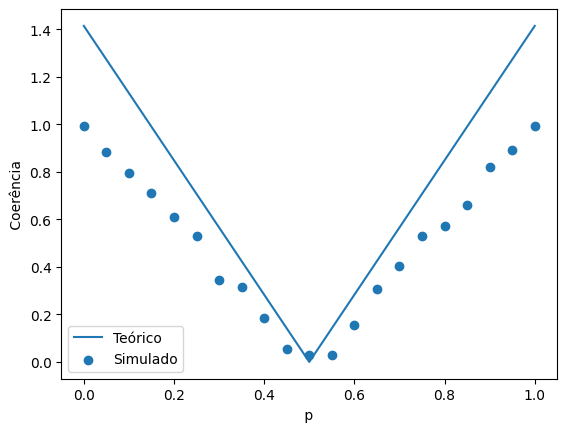
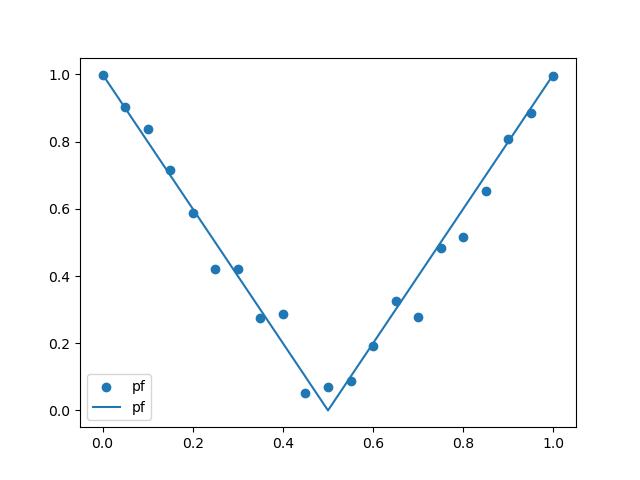
.

diff --git a/src/kraus_maps.py b/src/kraus_maps.py
@@ -15,7 +15,9 @@ class QuantumChannels(object):
         gamma = Symbol('gamma',real=True, positive=True)
         p = Symbol('p',real=True, positive=True)
 
-    def get_target_op(rho):
+    def get_target_op(state):
+        M_numpy = np.array(state.tolist(), dtype=np.complex64)
+        rho = simplify(M_numpy)
         state2 = np.zeros(np.shape(rho)[1],dtype=complex)
         aux = 0
         for i in rho[0]:
@@ -30,33 +32,34 @@ class QuantumChannels(object):
                         (sqrt(p)*exp(1j*phi)*sin(theta/2)),
                         (sqrt(1-p)*exp(1j*phi)*sin(theta/2)),
                         0]])
-        M_numpy = np.array(state.tolist(), dtype=np.complex64)
-        rho = simplify(M_numpy)
-        return rho
+        #M_numpy = np.array(state.tolist(), dtype=np.complex64)
+        #rho = simplify(M_numpy)
+        return state
     
     def rho_AB_bpf(theta, phi, p):
         state = Matrix([[(sqrt(1-p)*(cos(theta/2))),
                         (-1j*sqrt(p)*exp(1j*phi)*sin(theta/2)),
                         (sqrt(1-p)*exp(1j*phi)*sin(theta/2)),
                         (1j*sqrt(p)*cos(theta/2))]])
-        M_numpy = np.array(state.tolist(), dtype=np.complex64)
-        rho = simplify(M_numpy)
-        return rho
+        #M_numpy = np.array(state.tolist(), dtype=np.complex64)
+        #rho = simplify(M_numpy)
+        return state
 
     def rho_AB_bf(theta, phi, p):
         state = Matrix([[(sqrt(1-p)*cos(theta/2)),
-                        (sqrt(p)*cos(theta/2)),
+                        (sqrt(p)*exp(1j*phi)*sin(theta/2)),
                         (sqrt(1-p)*exp(1j*phi)*sin(theta/2)),
-                        -sqrt(p)*sin(theta/2)]])
+                        sqrt(p)*cos(theta/2)]])
         M_numpy = np.array(state.tolist(), dtype=np.complex64)
         rho = simplify(M_numpy)
-        return M_numpy
+        return rho
 
     def rho_AB_pf(theta, phi, p):
         state = Matrix([[(sqrt(1-p)*cos(theta/2)),
                         -(sqrt(p)*1j*sin(theta/2)),
                         (sqrt(p)*1j*cos(theta/2) +sqrt(1-p)*exp(1j*phi)*sin(theta/2)),
                         0]])
+        return state
         M_numpy = np.array(state.tolist(), dtype=np.complex64)
         rho = simplify(M_numpy)
         return rho
@@ -66,6 +69,7 @@ class QuantumChannels(object):
                          0,
                         (sqrt(1-p)*exp(1j*phi)*sin(theta/2)),
                         (sqrt(p)*exp(1j*phi)*sin(theta/2))]])
+        return state
         M_numpy = np.array(state.tolist(), dtype=np.complex64)
         rho = simplify(M_numpy)
         return rho
@@ -79,13 +83,30 @@ class QuantumChannels(object):
                         (sqrt(p/4)*cos(theta/2)),
                         (1j*sqrt(p/4)*cos(theta/2)),
                         0]])
-        M_numpy = np.array(state.tolist(), dtype=np.complex64)
-        rho = simplify(M_numpy)
-        return rho
+        #M_numpy = np.array(state.tolist(), dtype=np.complex64)
+        #rho = simplify(M_numpy)
+        return state
         #target_op = self.get_target_op(rho) 
         #return target_op
 
+    def show_eq(rho, theta=None, phi=None, gamma=None, p=None):
+        if theta == None or phi == None or gamma == None or p == None:
+            theta = Symbol('theta',real=True)
+            phi = Symbol('phi',real=True)
+            gamma = Symbol('gamma',real=True, positive=True)
+            p = Symbol('p',real=True, positive=True)
+        print(rho(theta, phi, p))
 
+
+def main():
+    QCH = QuantumChannels()
+    rho = QCH.rho_AB_d
+    QCH.show_eq(rho)
+    #print(QCH.get_target_op(rho))
+    #QCH.show_eq(rho)
+
+if __name__ == "__main__":
+    main()
 #a=10
 #QCH = QuantumChannels()
 #a = QCH.rho_AB_bpf

diff --git a/src/theoric_channels.py b/src/theoric_channels.py
@@ -6,7 +6,9 @@ import numpy as np
 import math
 #from ..theoric.tools import coh_l1, pTraceR_num, pTraceL_num
 import pickle
-
+import sys
+sys.path.append('runtime-qiskit')
+sys.path.append('src')
 
 class TheoricMaps():
     def __init__(self):
@@ -27,10 +29,10 @@ class TheoricMaps():
         return data
     
     def map_choser(self,map_name):
-        list_of_maps = ['bpf','ad','bf','pf','pd']#,'adg','d','l','H','ad3']
+        list_of_maps = ['bpf','ad','bf','pf','pd','d']#,'adg','d','l','H','ad3']
         list_of_functions = [self.theoric_rho_A_bpf, self.theoric_rho_A_ad,
                              self.theoric_rho_A_bf, self.theoric_rho_A_pf,
-                             self.theoric_rho_A_pd
+                             self.theoric_rho_A_pd, self.theoric_rho_A_d
                             ]
             #self.theoric_rho_A_adg,
             #self.theoric_rho_A_d,
@@ -38,7 +40,7 @@ class TheoricMaps():
             #self.theoric_rho_A_H,
             #self.theoric_rho_A_ad3   ]
         if map_name in list_of_maps:
-            print(list_of_maps.index(map_name))
+            #print(list_of_maps.index(map_name))
             return list_of_functions[list_of_maps.index(map_name)]
 
 
@@ -50,6 +52,7 @@ class TheoricMaps():
             for k in range(j+1, d):
                 coh += math.sqrt((rho[j][k].real)**2.0 + (rho[j][k].imag)**2.0)
         return 2.0*coh/(d-1)
+    
     def pTraceL_num(dl, dr, rhoLR):
         # Returns the left partial trace over the 'left' subsystem of rhoLR
         rhoR = np.zeros((dr, dr), dtype=complex)
@@ -112,11 +115,11 @@ class TheoricMaps():
         return state
     
     def theoric_rho_A_d(self, theta, phi, p):
-        state = Matrix([[(p/2)*(sin(theta/2))**2+(1-(p/2))*((cos(theta/2))**2),
+        state = Matrix([[(p/2)*(sin(theta/2))**2+(1-p/2)*(cos(theta/2))**2,
                         ((1-p)*exp(-1j*phi)*sin(theta/2)*cos(theta/2))],[
                         ((1-p)*exp(1j*phi)*sin(theta/2)*cos(theta/2)),
-                        ((1-p/2)*exp(1j*phi)*((sin(theta/2))**2))+(p/2)*((cos(theta/2))**2),
-                        sin(theta/2)**2]])
+                        ((1-p/2)*(sin(theta/2)**2))+(p/2)*(cos(theta/2))**2
+                        ]])
         return state
     
     def theoric_rho_A_gad(self, theta, phi, p):
@@ -144,17 +147,20 @@ class TheoricMaps():
             rho_numpy = np.array(rho.tolist(), dtype=np.complex64)
             coh = self.coh_l1(rho_numpy)
             cohs.append(coh)
-        plt.plot(list_p,cohs,label=map_name)
+        m = f'{map_name}, {theta}, {phi}'
+        plt.plot(list_p,cohs,label=m)
     
 def main():
     a = TheoricMaps()
     #a.theoric_rho_A_pf()
     x = np.linspace(0,1,21)
+    
     a.plot_storaged('ad')
     a.plot_theoric(x,'ad',theta=pi/2,phi=0)
 
     a.plot_storaged('pf')
-    a.plot_theoric(x,'pf',theta=pi/2,phi=pi/2)
+    a.plot_theoric(x,'pf',theta=pi/2,phi=0)
+    
 
     a.plot_storaged('bf')
     a.plot_theoric(x,'bf',theta=pi/2,phi=pi/2)
@@ -163,7 +169,10 @@ def main():
     a.plot_theoric(x,'bpf',theta=pi/2,phi=0.0)
 
     a.plot_storaged('d')
-    #a.plot_theoric(x,'d',theta=pi/2,phi=0)
+    a.plot_theoric(x,'d',theta=pi/2,phi=0)
+
+    #a.plot_storaged('l')
+    #a.plot_theoric(x,'l',theta=pi/2,phi=pi/2)
 
     plt.legend()
     #plt.show()

diff --git a/src/simulation.py b/src/simulation.py
@@ -7,14 +7,23 @@ from qiskit import QuantumRegister
 from qiskit import QuantumCircuit
 import torch
 import matplotlib.pyplot as plt
-from src.pTrace import pTraceR_num, pTraceL_num
-from src.coherence import coh_l1
 import numpy as np
 from torch import tensor
 from numpy import pi
+import sys
+sys.path.append('runtime-qiskit')
+sys.path.append('src')
+#sys.path.append('src')
 import pickle
-from src.kraus_maps import QuantumChannels as QCH
-from src.theoric_channels import TheoricMaps as tm
+#from src.pTrace import pTraceR_num, pTraceL_num
+#from src.coherence import coh_l1
+#from src.kraus_maps import QuantumChannels as QCH
+#from src.theoric_channels import TheoricMaps as tm
+
+from pTrace import pTraceR_num, pTraceL_num
+from coherence import coh_l1
+from kraus_maps import QuantumChannels as QCH
+from theoric_channels import TheoricMaps as tm
 
 
 class Simulate(object):
@@ -169,15 +178,17 @@ class Simulate(object):
         return coerencias_L, coerencias_R
 
     def plots(self, list_p, coerencias_L):
+        print(list_p)
+        print(len(coerencias_L))
         plt.scatter(list_p,coerencias_L,label='Simulado')
         plt.xlabel(' p ')
         plt.ylabel(' Coerência ')
-        plt.legend(loc=0)
-        plt.show()
+        #plt.legend(loc=0)
+        #plt.show()
 
     def run_calcs(self, save, theta, phi):
         #coerencias_R = []
-        #coerencias_L = []
+        coerencias_L = []
         pretrain = True
         count = 0
         #self.n_qubits = 2
@@ -198,7 +209,7 @@ class Simulate(object):
             pretrain = False
             rho = self.tomograph()
             #print(rho)
-            self.coerencias_L, self.coerencias_R = self.results(rho, self.coerencias_R, self.coerencias_L)
+            self.coerencias_L, self.coerencias_R = self.results(rho, self.coerencias_R, coerencias_L)
         mylist = [self.coerencias_L, self.coerencias_R, params]
         if save:
             with open(f'data/{self.map_name}/ClassTestcasa.pkl', 'wb') as f:
@@ -220,8 +231,30 @@ class Simulate(object):
         #save = [list_p, coerencias_R, coerencias_L]
         #with open('data/BPFlist_p-coerencias_R-coerencias_L.pkl', 'wb') as f:
         #    pickle.dump(save, f)
+    
+    def run_sequential_bf(self, phis):
+        for i in phis:
+            self.run_calcs(True, pi/2, i)
 
 
+def main():
+    #space = np.linspace(0, 2*pi, )
+    n_qubits = 2
+    list_p = np.linspace(0,1,21)
+    epochs = 130
+    step_to_start = 85
+    rho_AB = QCH.rho_AB_bf
+
+    S = Simulate('bf', n_qubits, list_p, epochs, step_to_start, rho_AB)
+    S.run_calcs(True, pi/2, pi/2)
+
+    #phis = [0,pi,pi/1.5,pi/2,pi/3,pi/4,pi/5]
+    #S.run_sequential_bf(phis)
+    plt.legend(loc=0)
+    plt.show()
+
+if __name__ == "__main__":
+    main()
 
 #from src.theoric_channels import TheoricMaps as TM
 #plot_theoric = TM.theoric_rho_A_bpf

diff --git a/app.py b/app.py
@@ -1,26 +1,17 @@
-from src.simulation import Simulate
-from src.kraus_maps import QuantumChannels as QCH
-from src.theoric_channels import TheoricMaps as TM
+import sys
+sys.path.append('runtime-qiskit')
+sys.path.append('src')
+from simulation import Simulate
+from kraus_maps import QuantumChannels as QCH
+from theoric_channels import TheoricMaps as TM
 
+import matplotlib.pyplot as plt
 from sympy import pi
 import numpy as np
-#----------------------------------------------------------------------------------------
-#rho_AB = QCH.rho_AB_d(pi/2, 0, 0.5)
-#----------------------------------------------------------------------------------------
-#plot_theoric = TM.theoric_rho_A_bpf
-#plot_theoric =  TM.theoric_rho_A_bf
-#plot_theoric = TM.theoric_rho_A_pf
-#plot_theoric = TM.theoric_rho_A_pd
-#plot_theoric = TM.theoric_rho_A_ad
-#plot_theoric = TM.theoric_rho_A_adg
-#plot_theoric = TM.theoric_rho_A_d
-#plot_theoric = TM.theoric_rho_A_l
-#plot_theoric = TM.theoric_rho_A_H      # falta as contas
-#plot_theoric = TM.theoric_rho_A_ad3
-# escolha um estado-------------------
+
 
 #rho_AB = QCH.rho_AB_bpf
-rho_AB = QCH.rho_AB_bf
+#rho_AB = QCH.rho_AB_d
 #rho_AB = QCH.rho_AB_pf
 #rho_AB = QCH.rho_AB_pd
 #rho_AB = QCH.rho_AB_ad
@@ -31,11 +22,45 @@ rho_AB = QCH.rho_AB_bf
 #rho_AB = QCH.rho_AB_ad3               # falta as contas
 
 
-n_qubits = 2
-list_p = np.linspace(0,1,21)
-epochs = 50
-step_to_start = 80
 
-S = Simulate('bf', n_qubits, list_p, epochs, step_to_start, rho_AB)
+def run_calc_map():
+    n_qubits = 3
+    list_p = np.linspace(0, 1, 21)
+    epochs = 1
+    step_to_start = 1
+    rho_AB = QCH.rho_AB_bf
+    S = Simulate('bf', n_qubits, list_p, epochs, step_to_start, rho_AB)
+    S.run_calcs(True, pi/2, pi/2)
+    plt.legend(loc=0)
+    plt.show
+#run_calc_map()
 
-S.run_calcs(True, pi/2, pi/2)
+def single_run(save):
+    
+    n_qubits = 2
+    list_p = np.linspace(0,1,21)
+    epochs = 130
+    step_to_start = 80
+
+    rho_AB = QCH.rho_AB_bf
+    S = Simulate('bf', n_qubits, list_p, epochs, step_to_start, rho_AB)
+    S.run_calcs(save, pi/2, pi/2)
+    plt.legend(loc=0)
+    plt.show()
+single_run(True)
+
+def run_sequential():
+    #space = np.linspace(0, 2*pi, )
+    n_qubits = 2
+    list_p = np.linspace(0,1,5)
+    epochs = 130
+    step_to_start = 85
+    rho_AB = QCH.rho_AB_bf
+
+    S = Simulate('bf', n_qubits, list_p, epochs, step_to_start, rho_AB)
+    phis = [0,pi,pi/1.5,pi/2,pi/3,pi/4,pi/5]
+    S.run_sequential_bf(phis)
+    plt.legend(loc=0)
+    plt.show()
+
+

diff --git a/src/coherence.py b/src/coherence.py
@@ -1,7 +1,9 @@
-import src.pTrace
 import math
 import numpy as np
-
+import sys
+sys.path.append('runtime-qiskit')
+sys.path.append('src')
+import pTrace
 #def coh(rho, name):
 #    if name == 'l1':
 #        return coh_l1(rho)
